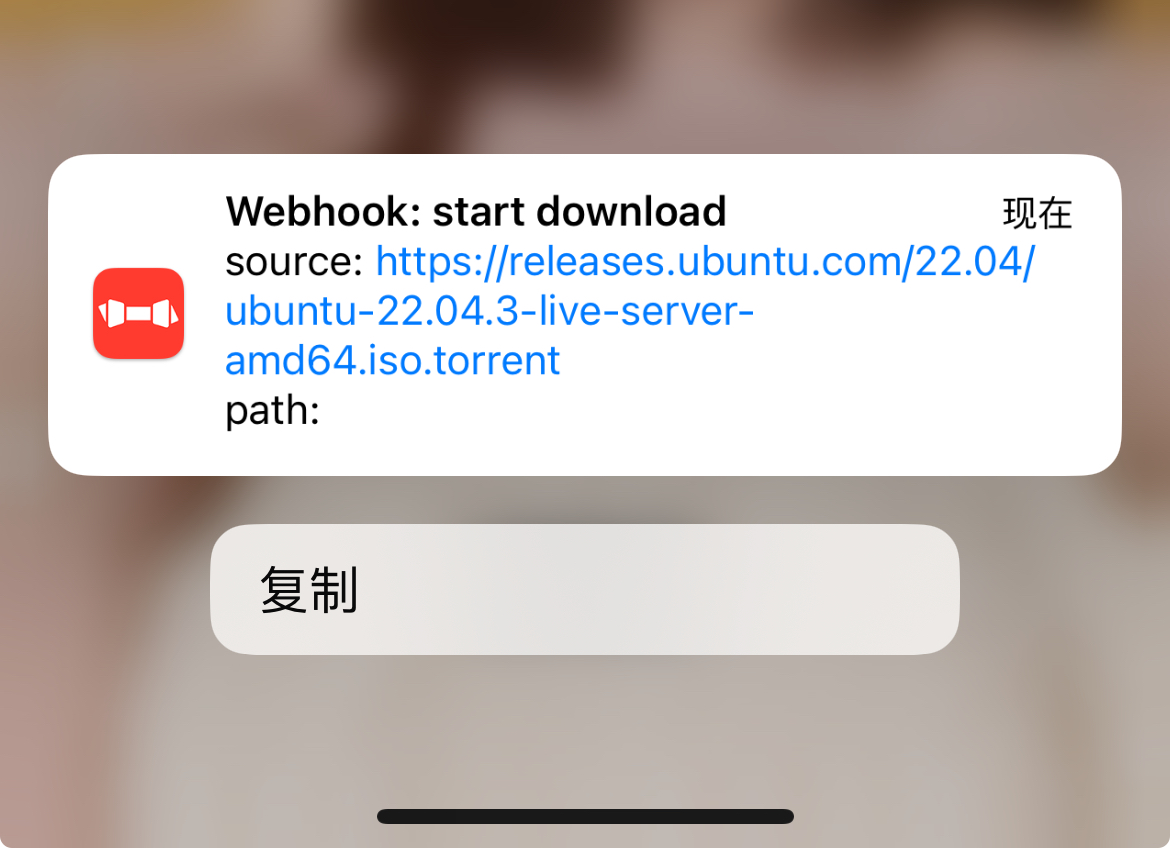
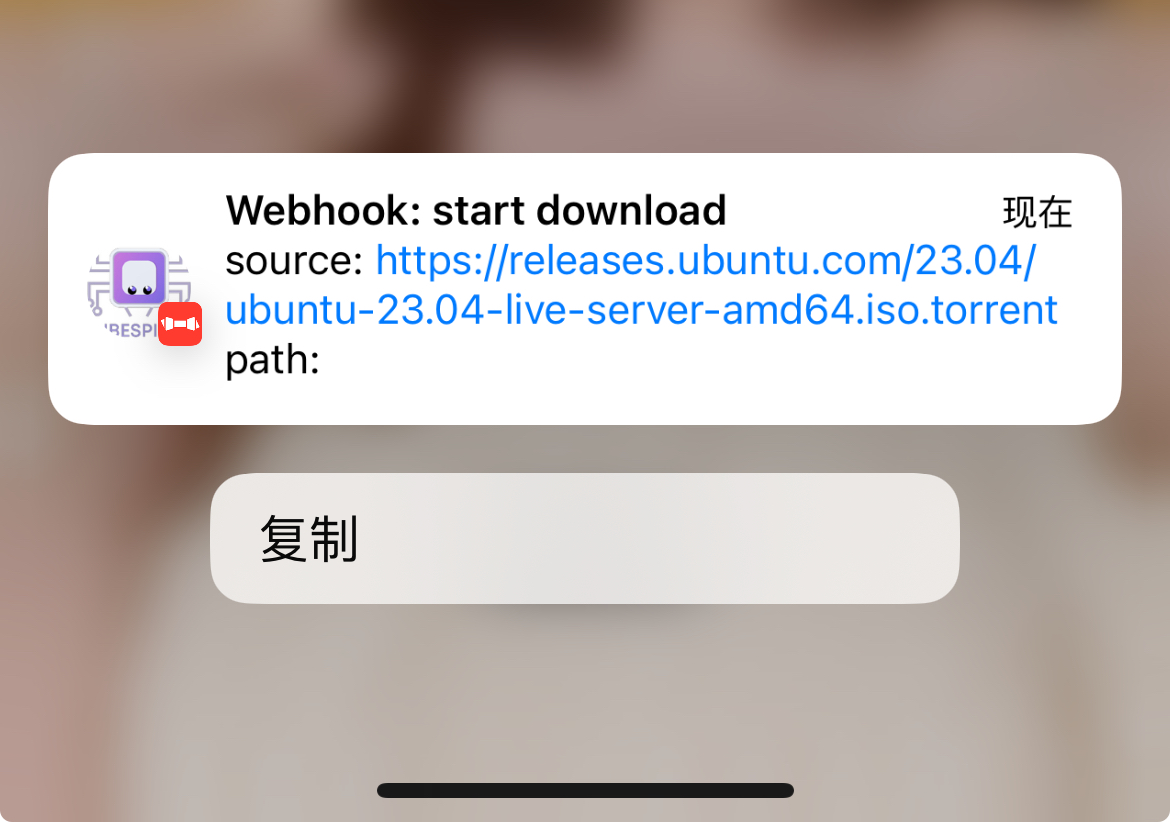
feat: add bark notification provider

diff --git a/kubespider/notification_provider/bark_notification_provider/provider.py b/kubespider/notification_provider/bark_notification_provider/provider.py
@@ -34,6 +34,7 @@ class BarkNotificationProvider(provider.NotificationProvider):
             "body": message,
             "title": "Webhook: start download",
             "group": "kubespider",
+            "icon": "https://ghproxy.com/https://raw.githubusercontent.com/opennaslab/kubespider/main/docs/images/logo.png",
             "device_key": self.device_token
         }
         response = self.request_handler.post(url, json=data, timeout=5, headers=headers).json()

diff --git a/README.md b/README.md
@@ -151,7 +151,7 @@ In order to make full use of the existing notification software in the open-sour
 |      Pushdeer         |   Yes   | [link](./docs/zh/user_guide/pushdeer_notification_provider/README.md) |
 |      Telegram         |   Yes   | [link](./docs/zh/user_guide/telegram_notification_provider/README.md) |
 |      QQ               |   Yes   | [link](./docs/zh/user_guide/qq_notification_provider/README.md) |
-|      Bark               |   Yes   | [link](./docs/zh/user_guide/bark_notification_provider/README.md) |
+|      Bark             |   Yes   | [link](./docs/zh/user_guide/bark_notification_provider/README.md) |
 
 ### Basic feature  
 Currently, the following file types are supported to trigger downloading:

diff --git a/README-CN.md b/README-CN.md
@@ -153,7 +153,7 @@ Kubespider结合chrome插件，能获得更好的体验。
 | Pushdeer  |   是    | [link](./docs/zh/user_guide/pushdeer_notification_provider/README.md) |
 | Telegram  |   是    | [link](./docs/zh/user_guide/telegram_notification_provider/README.md) |
 | QQ        |   是    | [link](./docs/zh/user_guide/qq_notification_provider/README.md) |
-| Bark        |   是    | [link](./docs/zh/user_guide/bark_notification_provider/README.md) |
+| Bark      |   是    | [link](./docs/zh/user_guide/bark_notification_provider/README.md) |
 
 ### 基本特性
 目前支持如下文件触发下载：
